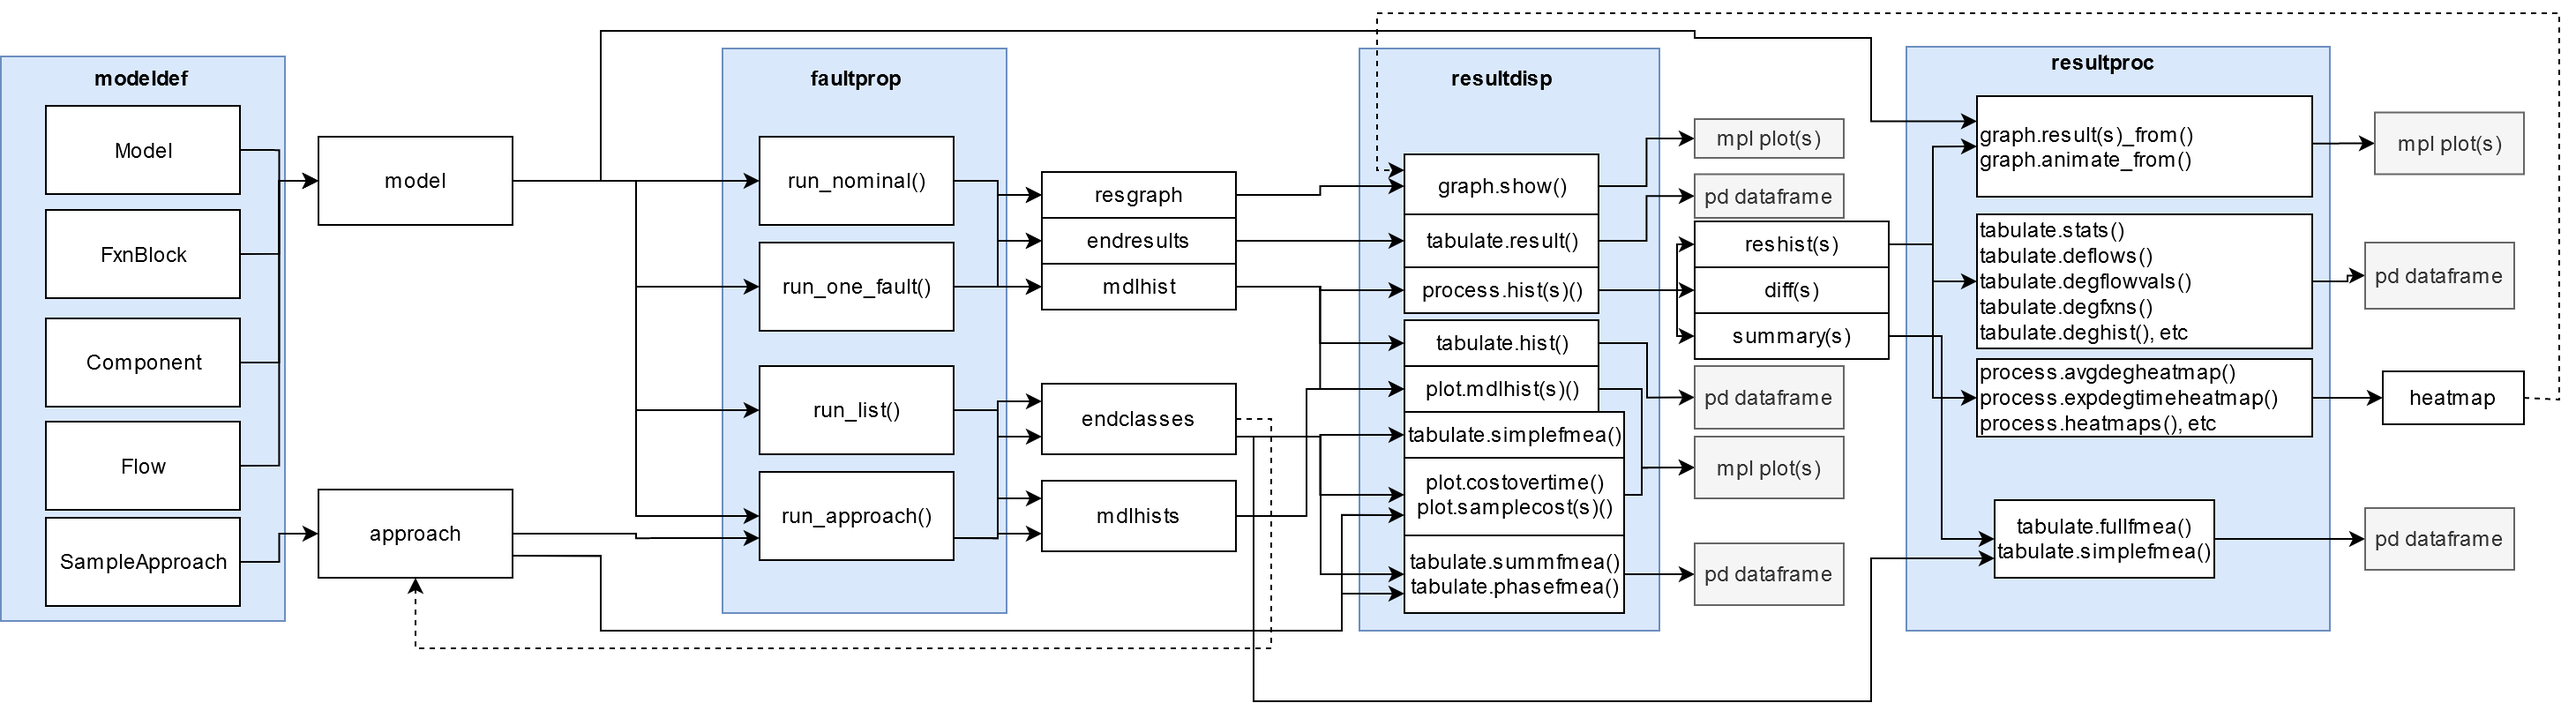
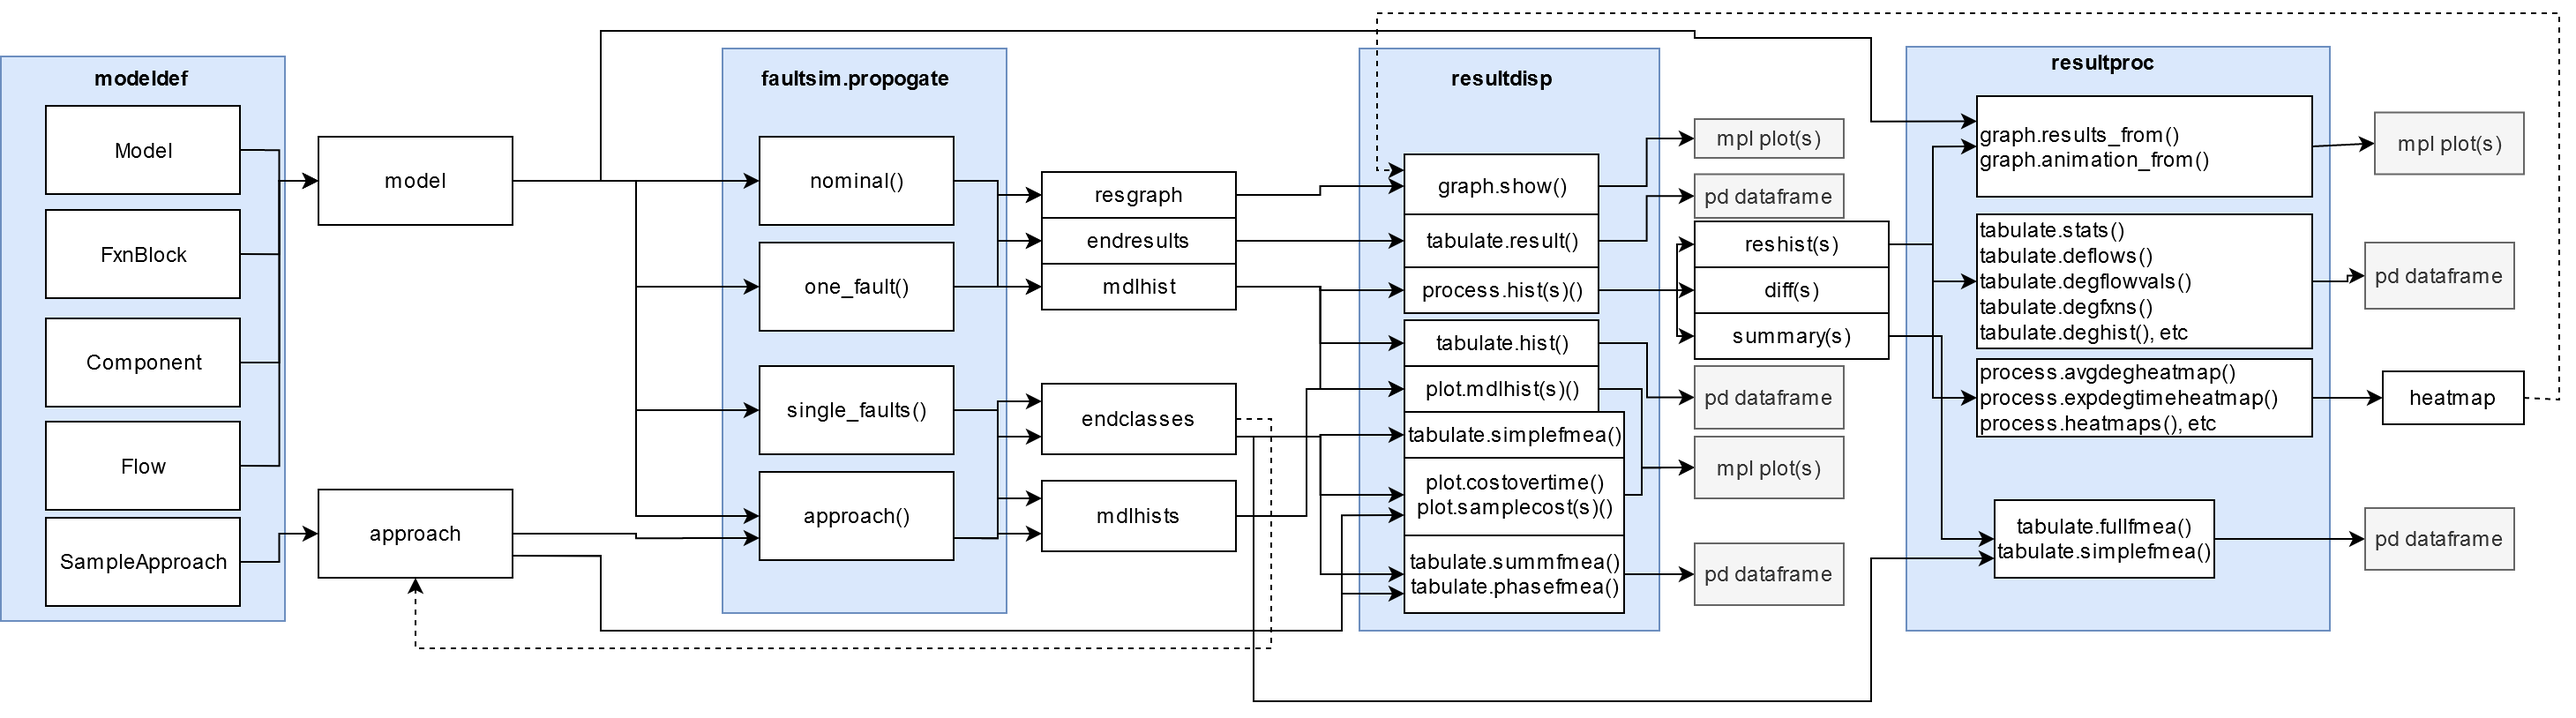
Updated documentation to match re-org of faultsim

diff --git a/docs/Overview.md b/docs/Overview.md
@@ -98,7 +98,7 @@ Iteratively re-run static propagation over a set of discrete time-steps until th
 
 Putting it all together means dynamically propogating a *set* of faults for the whole system over a *set* of times
 
-![full propagation of all faults](figures/run_approach.png)
+![full propagation of all faults](figures/propagate_approach.png)
 
 ---
 
